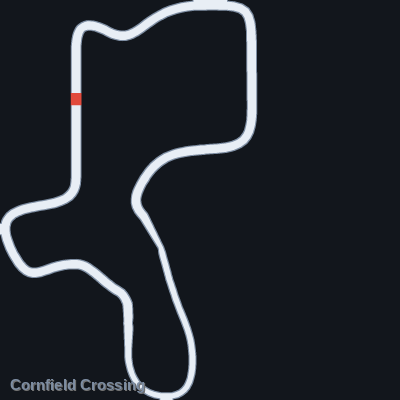
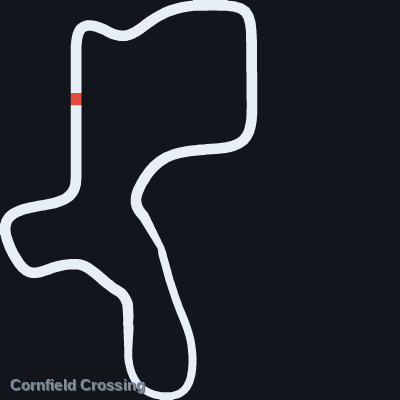
Fix mushy edges on the 'clean' style, bump to 1.0.2
The outline was drawn by eroding inward by one output pixel.  After the
supersample resolve a band that thin is narrower than the antialiasing ramp, so
it never survives as its own colour - measured on a real render, the outline
colour (126,142,163) appears nowhere in the output, nearest pixel off by 45.  It
was not drawing an edge, it was stretching the ramp, which reads as blur.  On a
thin driveline it also consumes the whole width, so asking for a wider outline
made tracks grey rather than crisper.

'clean' therefore defaults to no outline now.  'blueprint' keeps one: its fill
is translucent and barely registers without it, so this is per-style rather than
global.  --outline still overrides in both directions.

Separately, Pillow's Min/MaxFilter is square-only, and a square structuring
element reaches sqrt(2) further into a 45-degree edge than a horizontal one -
44% thicker outlines on the diagonals, measured against a circle.  Replaced with
a disk, which brings that to 12%.  Too subtle to see at 1px, but blueprint still
strokes, and the seam-sealing close uses it too.

Dropping the erosion pass for the common style makes renders ~4x faster
(temple at 512px: 1310ms -> 330ms).  'exact' output is byte-identical.

Changed region(s): [[0.15, 0.0, 0.66, 1.0], [0.0, 0.27, 0.36, 0.96]]

diff --git a/stk_minimap.py b/stk_minimap.py
@@ -33,7 +33,7 @@ Examples
 
 from __future__ import annotations
 
-__version__ = "1.0.1"
+__version__ = "1.0.2"
 
 import argparse
 import glob
@@ -531,15 +531,21 @@ def lap_line_polygon(g: Graph, invert_x_z: bool):
 STYLES = {
     # 'composite' False = later layers overwrite pixels, which is what the GPU
     # does when STK renders the minimap mesh with an opaque material.
+    # outline_px is the default stroke width for the style; --outline overrides.
+    # 'clean' deliberately has none: an inward stroke thinner than the
+    # antialiasing ramp never survives the downscale as its own colour, it just
+    # stretches the ramp - so it reads as a blurred edge rather than an outline,
+    # and on a thin driveline it eats the whole width.  'blueprint' needs one,
+    # because its fill is translucent and would otherwise barely show.
     "exact":  dict(bg=(255, 255, 255, 0),  track=(255, 255, 255, 127),
                    outline=None,             lap=(255, 0, 0, 128), invis=None,
-                   composite=False),
+                   composite=False, outline_px=0.0),
     "clean":  dict(bg=(18, 22, 28, 255),    track=(232, 238, 245, 255),
                    outline=(126, 142, 163, 255), lap=(226, 74, 60, 255),
-                   invis=(70, 78, 90, 255), composite=True),
+                   invis=(70, 78, 90, 255), composite=True, outline_px=0.0),
     "blueprint": dict(bg=(14, 32, 56, 255), track=(120, 190, 255, 70),
                       outline=(150, 210, 255, 255), lap=(255, 196, 84, 255),
-                      invis=(60, 100, 150, 255), composite=True),
+                      invis=(60, 100, 150, 255), composite=True, outline_px=1.0),
 }
 
 
@@ -617,6 +623,40 @@ def find_title_font(px: int):
         return ImageFont.load_default()
 
 
+def _disk_offsets(r: int) -> list[tuple[int, int]]:
+    return [(dx, dy) for dy in range(-r, r + 1) for dx in range(-r, r + 1)
+            if dx * dx + dy * dy <= r * r]
+
+
+def _morph(img: Image.Image, r: int, erode: bool) -> Image.Image:
+    """
+    Erode or dilate with a *disk*.
+
+    Pillow only offers a square Min/MaxFilter, and a square structuring element
+    eats sqrt(2) times further into a 45-degree edge than into a horizontal one.
+    That lands as an outline whose width visibly changes with direction - 44%
+    fatter on the diagonals, measured on a circle - which reads as a wobble
+    along curves.  A disk is isotropic, so the outline keeps one width.
+
+    Falls back to the square filter when numpy is missing.
+    """
+    if r < 1:
+        return img
+    if np is None:
+        f = ImageFilter.MinFilter if erode else ImageFilter.MaxFilter
+        return img.filter(f(2 * r + 1))
+
+    a = np.asarray(img)
+    h, w = a.shape
+    fill = 255 if erode else 0
+    pad = np.pad(a, r, mode="constant", constant_values=fill)
+    out = np.full_like(a, fill)
+    op = np.minimum if erode else np.maximum
+    for dx, dy in _disk_offsets(r):
+        out = op(out, pad[r + dy:r + dy + h, r + dx:r + dx + w])
+    return Image.fromarray(out, "L")
+
+
 def render(g: Graph, fr: Framing, style: str, ss: int, show_invisible: bool,
            invert_x_z: bool, outline_px: float, title: str | None,
            background: str | None, seal: bool = True) -> Image.Image:
@@ -652,14 +692,14 @@ def render(g: Graph, fr: Framing, style: str, ss: int, show_invisible: bool,
         # Quad::getVertices nudges every quad along its own normal, so on sloped
         # ground neighbouring quads can miss each other by a sliver.  A
         # morphological close welds those hairlines shut before we outline.
-        r = 2 * max(1, ss // 2) + 1
-        track_mask = track_mask.filter(ImageFilter.MaxFilter(r)) \
-                               .filter(ImageFilter.MinFilter(r))
+        r = max(1, ss // 2)
+        track_mask = _morph(_morph(track_mask, r, erode=False), r, erode=True)
     put(pal["track"], track_mask)
 
-    if pal.get("outline"):
-        w = max(1, int(round(outline_px * ss)))
-        eroded = track_mask.filter(ImageFilter.MinFilter(2 * w + 1))
+    width_px = pal.get("outline_px", 1.0) if outline_px is None else outline_px
+    if pal.get("outline") and width_px > 0:
+        w = max(1, int(round(width_px * ss)))
+        eroded = _morph(track_mask, w, erode=True)
         edge = Image.composite(track_mask, Image.new("L", big, 0),
                                Image.eval(eroded, lambda v: 255 - v))
         put(pal["outline"], edge)
@@ -762,7 +802,7 @@ def _gui_args(**over):
     """build() takes the argparse namespace, so the GUI fakes one."""
     a = argparse.Namespace(reverse=False, full_polys=False, size=512, fit=False,
                            margin=0.02, style="exact", supersample=4,
-                           show_invisible=False, invert_x_z=False, outline=1.0,
+                           show_invisible=False, invert_x_z=False, outline=None,
                            title=False, background=None, no_seal=False)
     for k, v in over.items():
         setattr(a, k, v)
@@ -1174,8 +1214,9 @@ def main(argv=None) -> int:
                     help="'exact' reproduces the game's texture (white on transparent, "
                          "alpha 127); 'clean' and 'blueprint' are readable presets")
     ap.add_argument("--background", help="override background colour, e.g. '#101418' or 'none'")
-    ap.add_argument("--outline", type=float, default=1.0,
-                    help="outline width in output pixels (clean/blueprint, default 1)")
+    ap.add_argument("--outline", type=float, default=None,
+                    help="outline width in output pixels; 0 turns it off "
+                         "(default: none for 'clean', 1 for 'blueprint')")
     ap.add_argument("--title", action="store_true", help="draw the track name")
     ap.add_argument("--no-seal", action="store_true",
                     help="don't weld hairline gaps between quads (always off for "

diff --git a/README.md b/README.md
@@ -126,7 +126,7 @@ which have no driveline).
 | `-s, --size` | output size in pixels, default 512 |
 | `--style` | `exact`, `clean` or `blueprint` |
 | `--background` | override the background, e.g. `'#101418'` or `none` |
-| `--outline` | outline width in pixels (`clean`/`blueprint`) |
+| `--outline` | outline width in pixels; `0` turns it off (default: none for `clean`, 1 for `blueprint`) |
 | `--title` | draw the track's display name |
 | `--supersample` | antialiasing factor, default 4 (the game itself uses 2) |
 | `--fit` | crop to the track instead of the game's square view |
@@ -154,10 +154,12 @@ fully transparent background. On its own it looks blank in most image viewers;
 that's correct, and it's the one to use if you're compositing over the in-game
 minimap. Shown above over grey so you can see it at all.
 
-**`clean`** — light track on a dark background with an outline. What you want
-for a guide, a diagram, or a Discord post.
-
-**`blueprint`** — the same geometry in a schematic blue.
+**`clean`** — light track on a dark background. What you want for a guide, a
+diagram, or a Discord post. Deliberately has no outline: a stroke thinner than
+the antialiasing ramp can't survive the downscale as its own colour, so it just
+softens the edge instead of defining it. Add one with `--outline 2` if you want
+it. **`blueprint`** — the same geometry in a schematic blue; this one keeps its
+outline, because its fill is translucent and would barely register without it.
 
 `clean` and `blueprint` are cosmetic and may change between versions. `exact` is
 a contract and won't.
